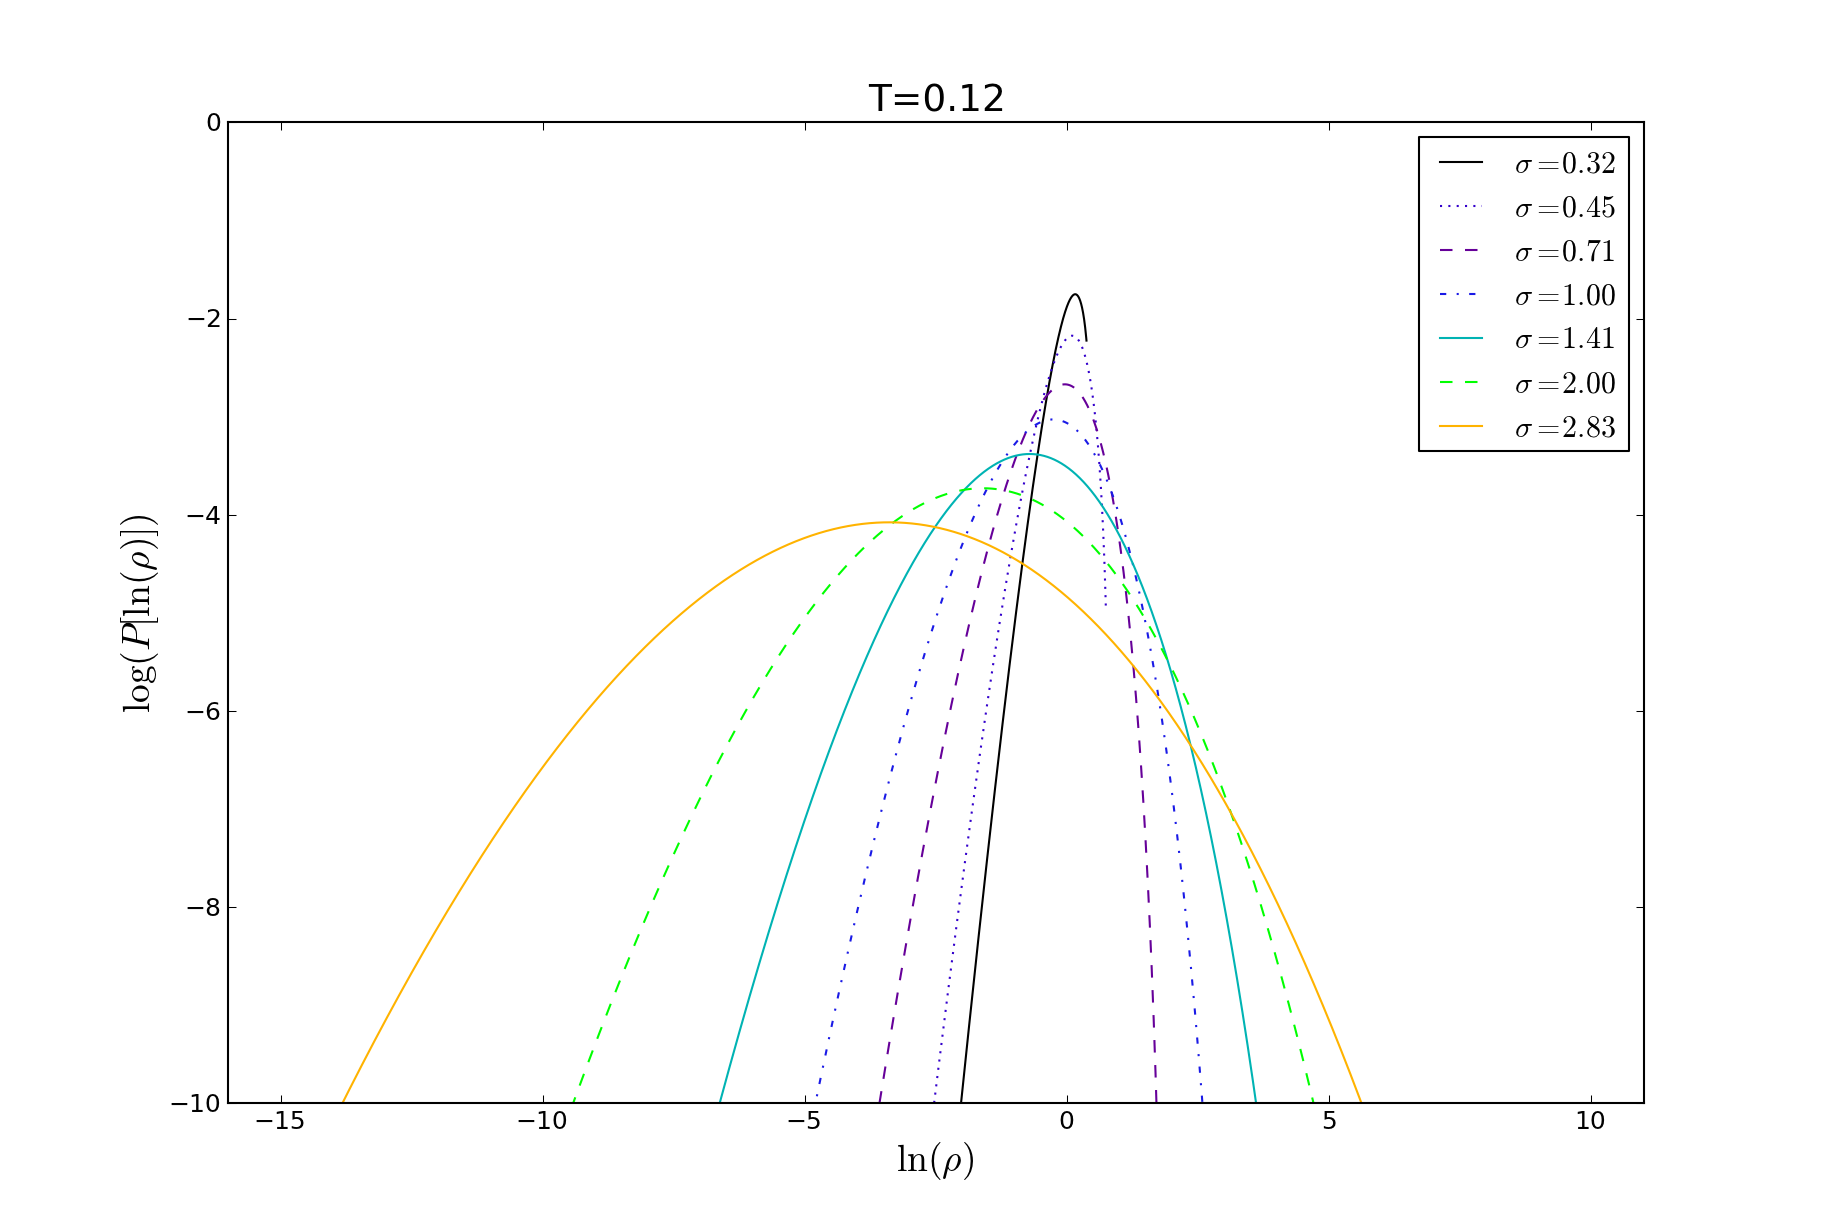
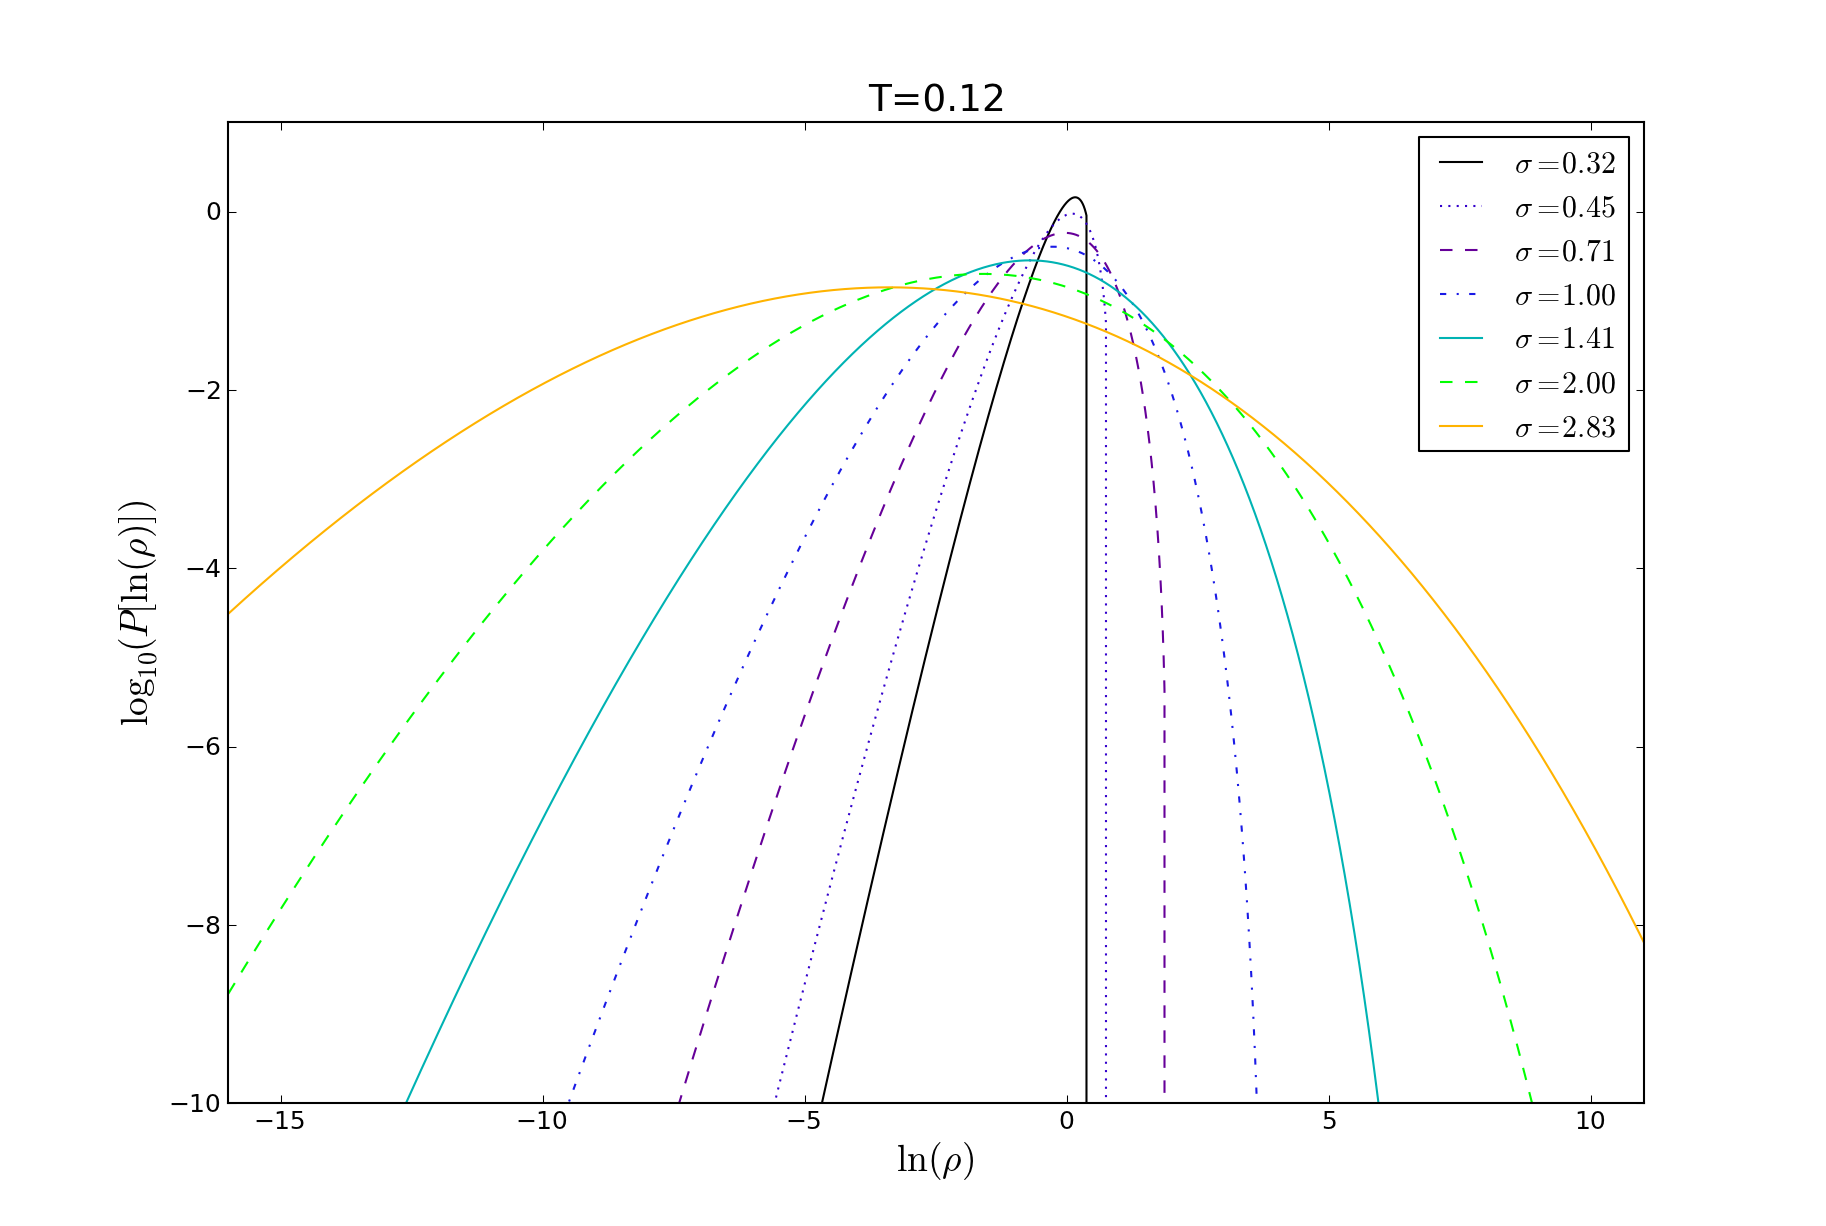
fix: du->dp

diff --git a/hopkins_pdf.py b/hopkins_pdf.py
@@ -4,6 +4,9 @@ import numpy as np
 # Bessel function 1st-order
 iv1 = lambda x: iv(1,x)
 
+# for rescaling log_e -> log_10
+ln10 = np.log(10)
+
 def loghopkins(rho, sigma, T):
     """
     Hopkins 2013 probability distribution:
@@ -47,7 +50,8 @@ def loghopkins(rho, sigma, T):
     term1[arg>=500] =  (-0.5 * np.log(2*np.pi*arg[arg>=500]) + arg[arg>=500])
 
     # p(rho)=0 for u<0 
-    log_rho[u>0] = (term1 + arg2 + 0.5*(np.log(lam)-np.log(u)))[u>=0]
+    # du = d(ln rho) / T
+    log_rho[u>0] = (term1 + arg2 + 0.5*(np.log(lam)-np.log(u)) - np.log(T))[u>=0]
     log_rho[u<0] = -np.inf
 
     if np.any(np.isnan(log_rho)):
@@ -88,7 +92,7 @@ def test_hopkins(savefigures=False):
     import pylab as pl
     pl.figure(1)
     pl.clf()
-    rho = np.logspace(-15,10,10000,base=np.e)
+    rho = np.logspace(-16,11,50000,base=np.e)
     sigma = 2
     Tvals = [0,0.05,0.12,0.3,0.6]
     colors = ['k',(0.2,0.0,0.8),(0.4,0.0,0.6),(0.1,0.1,0.9),(0,0.7,0.7)]
@@ -96,16 +100,17 @@ def test_hopkins(savefigures=False):
 
     for T,col,ls in zip(Tvals,colors,linestyles):
         pdist = loghopkins(rho,sigma,T)
+        pdist[pdist<-100] = -100 # plot negative infinities
         #pdist += -1-pdist[np.isfinite(pdist)].max()
-        pl.plot(np.log(rho), pdist, label="T=%0.2f" % T, color=col, linestyle=ls)
+        pl.plot(np.log(rho), pdist/ln10, label="T=%0.2f" % T, color=col, linestyle=ls)
     pl.axis([-16,11,-10,0])
     pl.xlabel("$\\ln(\\rho)$",fontsize=18)
-    pl.ylabel("$\\log(P[\\ln(\\rho)])$",fontsize=18)
+    pl.ylabel("$\\log_{10}(P[\\ln(\\rho)])$",fontsize=18)
     pl.legend(loc='best')
     pl.title("$\\sigma_{\ln(\\rho,V)}=2.0$",fontsize=18)
 
     if savefigures:
-        pl.savefig("Hopkins2013_fig1a.png")
+        pl.savefig("figures/Hopkins2013_fig1a.png")
 
     pl.figure(2)
     pl.clf()
@@ -116,16 +121,17 @@ def test_hopkins(savefigures=False):
 
     for sigma,col,ls in zip(sigmas,colors,linestyles):
         pdist = loghopkins(rho,sigma,T)
+        pdist[pdist<-100] = -100 # plot negative infinities
         #pdist += -1-pdist[np.isfinite(pdist)].max()
-        pl.plot(np.log(rho), pdist, label="$\\sigma=%0.2f$" % sigma, color=col, linestyle=ls)
-    pl.axis([-16,11,-10,0])
+        pl.plot(np.log(rho), pdist/ln10, label="$\\sigma=%0.2f$" % sigma, color=col, linestyle=ls)
+    pl.axis([-16,11,-10,1])
     pl.xlabel("$\\ln(\\rho)$",fontsize=18)
-    pl.ylabel("$\\log(P[\\ln(\\rho)])$",fontsize=18)
+    pl.ylabel("$\\log_{10}(P[\\ln(\\rho)])$",fontsize=18)
     pl.legend(loc='best')
     pl.title("T=0.12",fontsize=18)
 
     if savefigures:
-        pl.savefig("Hopkins2013_fig1b.png")
+        pl.savefig("figures/Hopkins2013_fig1b.png")
 
     pl.show()
 
